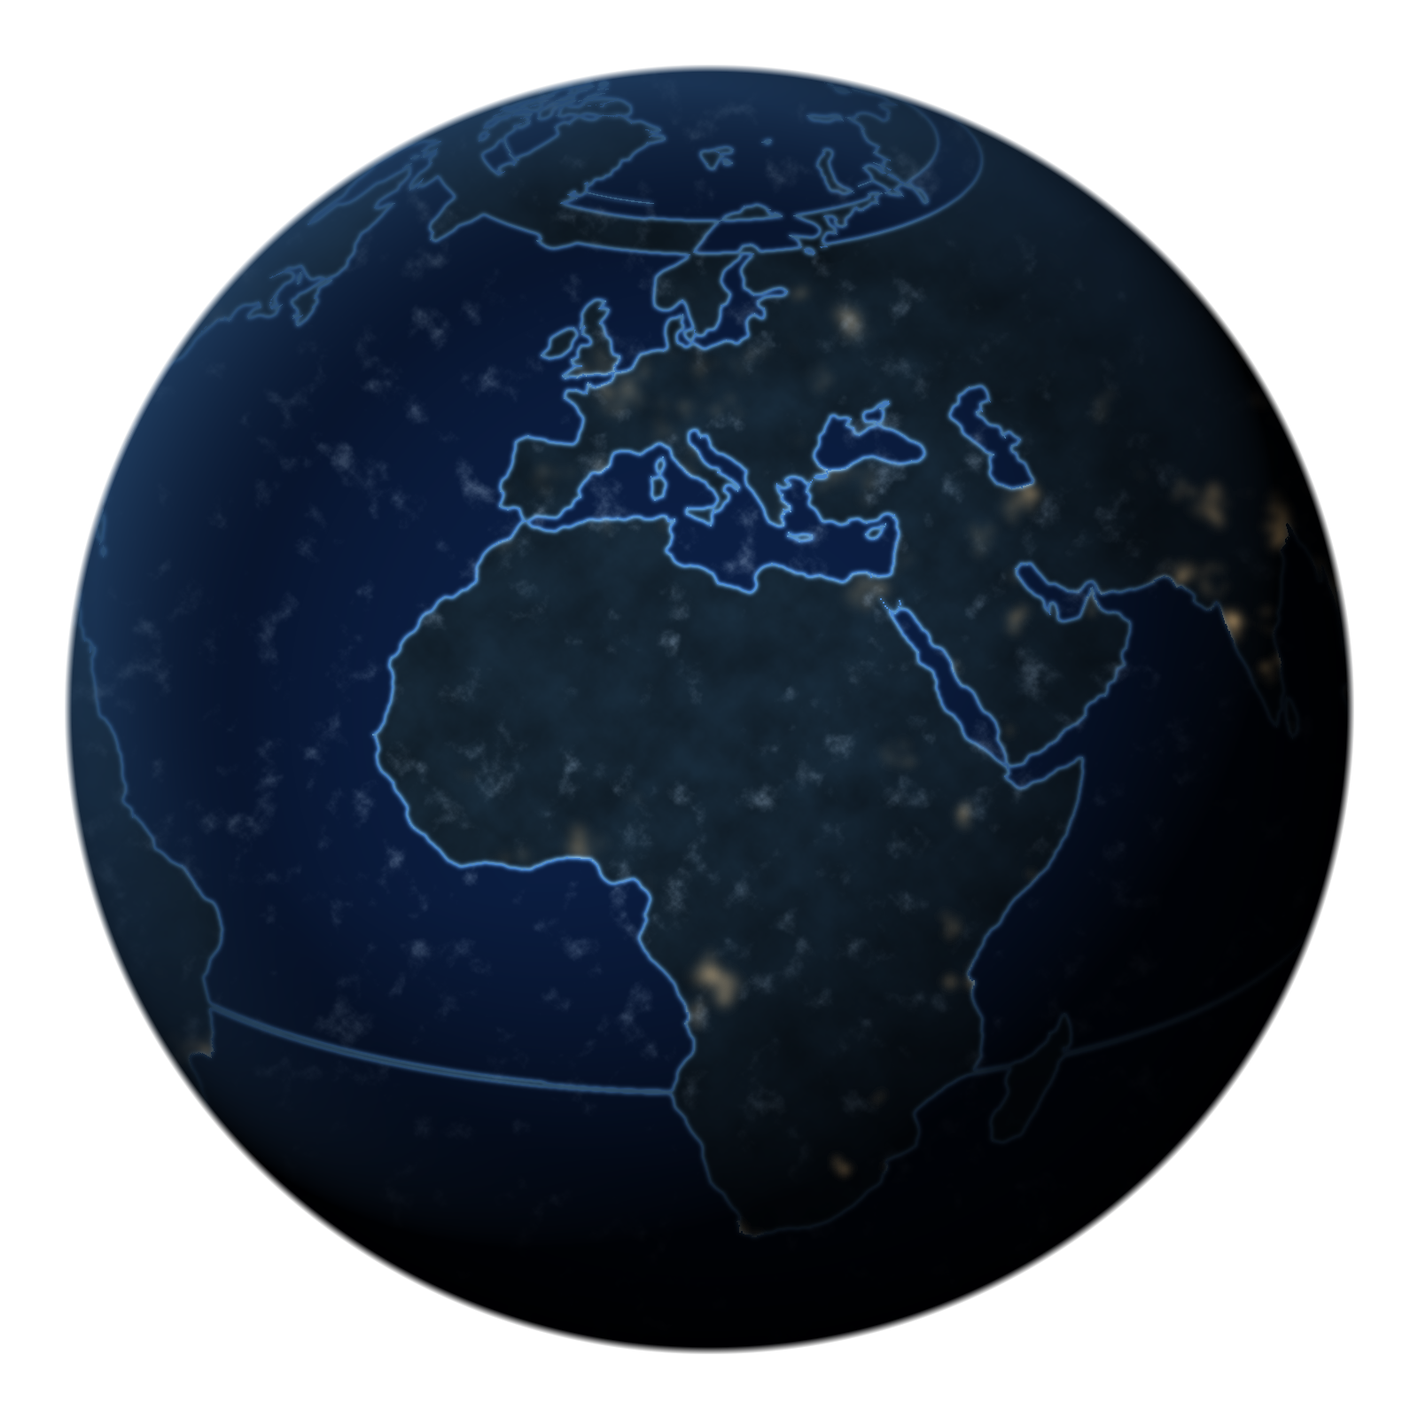
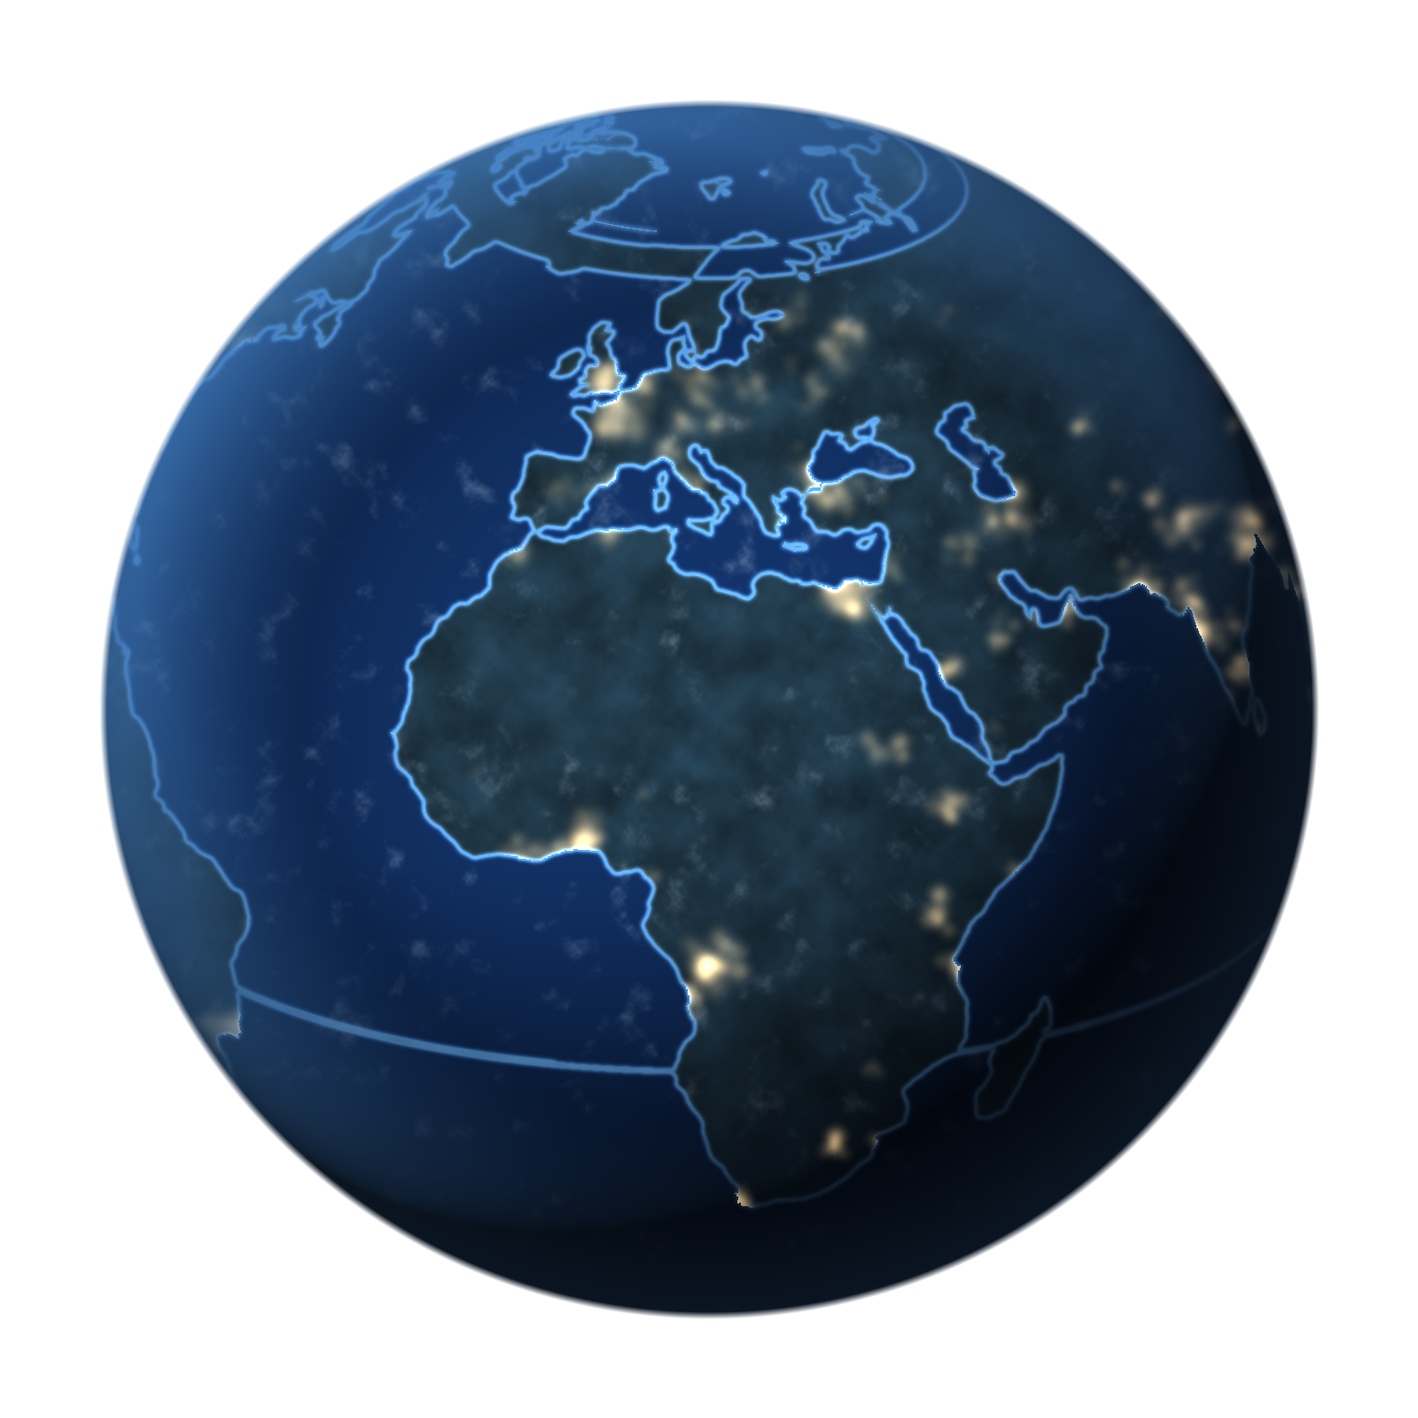
fix(home): hero scale correction — the Earth becomes the dominant visual
HERO SCALE CORRECTION. The previous pass reduced the globe too far and it
read as a small decorative sphere behind the premium card. Required
hierarchy: left headline/search/actions, MIDDLE-RIGHT a large illuminated
Earth, far right a premium card floating beside it and not overpowering it.

SCALE AND PLACEMENT
  The sphere is no longer bounded by the hero's own height. It is a fixed
  580px square at lg (640 at xl), ~1.45x its previous apparent size,
  centred vertically on the band and allowed to overflow it, with its
  horizontal centre moved from ~68% of the hero to ~52% - into the middle.
  That is what puts Earth behind the search field and the action row rather
  than beside them.
  THE MASK IS WHAT KEEPS IT FROM BEING THE EARLIER REJECTED CROP. A first
  attempt at 760px lost the limb entirely and stopped reading as a world -
  it was the oversized/cropped result the ruling warned against, and it was
  measured and withdrawn rather than shipped. At 580px with a softer radial
  mask the curvature and the limb are both visible, so the sphere dissolves
  into the atmosphere instead of ending on an edge.

LIGHTING — regenerated asset
  Ocean day colour to a vivid blue marble; more of the disc catches the sun
  so the terminator sits further round; city-light satellites per city from
  3/6/10 to 5/10/16 with higher amplitude and a 1.85x warm multiplier;
  atmospheric haze and the outer glow both widened and raised; land texture
[…]

diff --git a/frontend/src/components/home/BetaHero.tsx b/frontend/src/components/home/BetaHero.tsx
@@ -113,7 +113,7 @@ export function BetaHero({ language = 'en', latestUpdates }: BetaHeroProps): JSX
   return (
     <section
       aria-labelledby="beta-hero-heading"
-      className="relative isolate overflow-hidden pb-4 pt-3 sm:pb-5 lg:pb-5 lg:pt-5"
+      className="relative isolate overflow-hidden pb-7 pt-5 sm:pb-8 lg:pb-9 lg:pt-8"
     >
       {/*
         THE LAYERED DARK-BLUE INTELLIGENCE FIELD.
@@ -135,49 +135,87 @@ export function BetaHero({ language = 'en', latestUpdates }: BetaHeroProps): JSX
       */}
       <div
         aria-hidden="true"
-        className="pointer-events-none absolute inset-y-0 left-1/2 -z-10 w-screen -translate-x-1/2"
+        className="pointer-events-none absolute inset-y-0 left-1/2 -z-20 w-screen -translate-x-1/2"
       >
-        <div className="absolute inset-0 bg-[linear-gradient(180deg,#04090f_0%,#050e1c_45%,#04080f_100%)]" />
-        <div className="absolute inset-0 bg-[radial-gradient(ellipse_70%_60%_at_78%_32%,rgba(34,211,238,0.20),transparent_70%)]" />
-        <div className="absolute inset-0 bg-[radial-gradient(ellipse_55%_55%_at_12%_18%,rgba(139,92,246,0.14),transparent_70%)]" />
-        <div className="absolute inset-0 bg-[radial-gradient(ellipse_at_center,transparent_40%,rgba(2,6,12,0.65)_100%)]" />
+        {/*
+          ── THE WORLD ATMOSPHERE ────────────────────────────────────────
+          HERO SCALE CORRECTION: *"The current Hero still looks too much like a
+          plain dark panel with a globe asset placed inside it. Blend the world
+          treatment into the Hero background using gradients, atmospheric haze
+          and subtle world/geographic texture so the globe feels embedded in the
+          product surface."*
+
+          Seven layers, each doing one job, all pure CSS — no JavaScript, no
+          layout cost, nothing that moves and so nothing needing a
+          reduced-motion branch.
+        */}
+
+        {/* 1 · the deep base, warmer toward the horizon line than the edges */}
+        <div className="absolute inset-0 bg-[linear-gradient(180deg,#03070e_0%,#061426_42%,#08192c_62%,#040a14_100%)]" />
+
+        {/* 2 · THE ATMOSPHERE ITSELF — a wide blue bloom centred on the globe,
+               far larger than the sphere, so the light reads as coming OFF the
+               world rather than being painted behind it */}
+        <div className="absolute inset-0 bg-[radial-gradient(ellipse_86%_130%_at_58%_46%,rgba(56,150,236,0.30),transparent_68%)]" />
+
+        {/* 3 · the hotter inner core of that bloom */}
+        <div className="absolute inset-0 bg-[radial-gradient(ellipse_44%_74%_at_56%_44%,rgba(80,190,255,0.22),transparent_62%)]" />
+
+        {/* 4 · violet counterweight on the headline side, so the left is not a
+               dead corner and the two accents balance */}
+        <div className="absolute inset-0 bg-[radial-gradient(ellipse_52%_64%_at_6%_20%,rgba(124,92,246,0.18),transparent_70%)]" />
+
+        {/* 5 · SUBTLE GEOGRAPHIC TEXTURE — a graticule so faint it reads as
+               material rather than as a grid. Two repeating-linear-gradients,
+               one per axis, at ~2.5% so no line is ever individually legible */}
+        <div className="absolute inset-0 opacity-[0.55] [background-image:repeating-linear-gradient(90deg,rgba(125,211,252,0.045)_0_1px,transparent_1px_96px),repeating-linear-gradient(0deg,rgba(125,211,252,0.035)_0_1px,transparent_1px_96px)]" />
+
+        {/* 6 · atmospheric haze drifting up from the horizon */}
+        <div className="absolute inset-x-0 bottom-0 h-1/2 bg-[linear-gradient(0deg,rgba(14,52,92,0.34),transparent_84%)]" />
+
+        {/* 7 · vignette, last, so type stays legible where the bloom is brightest */}
+        <div className="absolute inset-0 bg-[radial-gradient(ellipse_at_center,transparent_36%,rgba(2,6,12,0.62)_100%)]" />
       </div>
 
       {/*
-        THE GLOBE — Z2, placed under DESKTOP FIDELITY CORRECTION R2 §3.
+        THE GLOBE — HERO SCALE CORRECTION.
 
-        R2 refused the previous placement as *"too circular, too visually
-        isolated and too dominant"* — a standalone glowing circle rather than a
-        part of the composition. The target it sets: *"approximately the
-        middle/right half of the Hero; visibly behind/around the CTA area;
-        enough Earth visible to feel global; not a standalone glowing circle;
-        premium card clearly separated at the far right."*
+        The previous pass was refused for the opposite reason to the one before
+        it: *"the globe has now been reduced too far... it reads as a small
+        decorative globe behind the premium card."* The required hierarchy is
+        stated plainly — left is headline/search/actions, MIDDLE-RIGHT is a
+        large illuminated Earth, far right is the premium card floating above
+        it — and the card must not overpower the world.
 
-        So it starts at 38% of the hero's width and runs past the right edge,
-        and it is vertically centred on the band rather than parked at the top —
-        which is what puts it BEHIND the actions rather than above them. It is
-        deliberately cropped by the hero on the right: a world that runs off the
-        frame reads as a world, while a complete disc floating in space reads as
-        a widget. The premium card sits clear of it at the far right, §4.
+        So the sphere is no longer bounded by the hero's own height. It is a
+        fixed square, ~1.7× its previous apparent size, centred vertically on
+        the band and allowed to overflow it top and bottom, with its horizontal
+        centre moved from ~68% of the hero to ~52% — into the middle. That is
+        what puts Earth behind the search field and the action row rather than
+        beside them, and it is why it no longer reads as a circular icon parked
+        behind the card.
 
-        The mask does two jobs: it fades the bottom so the hero's overflow never
-        cuts a hard line, and it fades the left so the globe dissolves behind
-        the headline instead of ending on an edge beside it.
+        THE MASKS ARE WHAT KEEP IT FROM BEING THE EARLIER REJECTED CROP. Fading
+        top, bottom and left means the sphere has no hard edge anywhere: it
+        dissolves into the atmosphere behind the headline instead of ending on
+        a line, so a viewer reads "a world the page is sitting on" rather than
+        "a large image that did not fit".
+
+        `-z-10` keeps it above the atmosphere layers and below every control.
+        It is `aria-hidden`, carries no marks, and nothing on the page reads it.
       */}
       <div
         aria-hidden="true"
-        className="pointer-events-none absolute inset-y-0 right-[-16%] left-[42%] -z-10 opacity-70 [mask-image:linear-gradient(to_right,transparent_0%,#000_30%)] sm:right-[-12%] sm:left-[44%] sm:opacity-75 lg:right-[-12%] lg:left-[30%] lg:opacity-100"
+        className="pointer-events-none absolute left-1/2 top-1/2 -z-10 h-[380px] w-[380px] -translate-x-[6%] -translate-y-[52%] opacity-75 [mask-image:radial-gradient(circle_at_50%_50%,#000_84%,rgba(0,0,0,0.72)_93%,transparent_100%)] sm:h-[460px] sm:w-[460px] sm:opacity-90 lg:h-[580px] lg:w-[580px] lg:-translate-x-[20%] lg:-translate-y-[50%] lg:opacity-100 xl:h-[640px] xl:w-[640px] xl:-translate-x-[22%]"
       >
-        <div className="relative h-full w-full [mask-image:linear-gradient(to_bottom,#000_72%,transparent_97%)]">
-          <HeroGlobe />
-        </div>
+        <HeroGlobe />
       </div>
 
       <div className="relative grid grid-cols-1 gap-8 lg:grid-cols-[minmax(0,1fr)_minmax(0,300px)] lg:items-start lg:gap-7">
         <div className="flex max-w-2xl flex-col">
           <h1
             id="beta-hero-heading"
-            className="font-display text-[34px] font-semibold leading-[1.05] tracking-[-0.02em] sm:text-[42px] lg:text-[40px] xl:text-[46px]"
+            className="font-display text-[36px] font-semibold leading-[1.04] tracking-[-0.022em] sm:text-[44px] lg:text-[50px] xl:text-[56px]"
           >
             <span className="block text-ink-primary">{t.heroA}</span>
             {/*
@@ -191,7 +229,7 @@ export function BetaHero({ language = 'en', latestUpdates }: BetaHeroProps): JSX
             <span className="block text-cyan-300">{t.heroB}</span>
           </h1>
 
-          <p className="mt-2.5 max-w-xl text-[14px] leading-relaxed text-ink-secondary sm:text-[15px]">
+          <p className="mt-4 max-w-xl text-[15px] leading-relaxed text-ink-secondary sm:text-base">
             {t.heroSub}
           </p>
 
@@ -205,7 +243,7 @@ export function BetaHero({ language = 'en', latestUpdates }: BetaHeroProps): JSX
             method="get"
             role="search"
             aria-label={t.askAria}
-            className="mt-3.5 flex w-full max-w-[520px] items-center gap-2 rounded-2xl border border-border-strong bg-void/70 p-1.5 pl-4 shadow-[0_0_40px_-12px_rgba(34,211,238,0.35)] focus-within:border-cyan-400/50"
+            className="mt-5 flex w-full max-w-[600px] items-center gap-2 rounded-2xl border border-border-strong bg-void/75 p-2 pl-4 shadow-[0_0_40px_-12px_rgba(34,211,238,0.35)] focus-within:border-cyan-400/50"
           >
             <Sparkles size={18} strokeWidth={1.75} aria-hidden="true" className="shrink-0 text-violet-300" />
             <input
@@ -225,7 +263,7 @@ export function BetaHero({ language = 'en', latestUpdates }: BetaHeroProps): JSX
           </form>
 
           {/* The metered-cost disclosure. Approved copy, stated before the spend. */}
-          <p className="mt-2 flex max-w-xl items-start gap-1.5 text-[11.5px] leading-snug text-ink-tertiary">
+          <p className="mt-3 flex max-w-xl items-start gap-1.5 text-[12px] leading-snug text-ink-tertiary">
             <Zap size={13} strokeWidth={2} aria-hidden="true" className="mt-[2px] shrink-0 text-amber-300" />
             <span>{t.askHint}</span>
           </p>
@@ -234,35 +272,35 @@ export function BetaHero({ language = 'en', latestUpdates }: BetaHeroProps): JSX
             THE THREE ACTIONS. All three are ordinary links to destinations that
             already exist, and none of them spends anything on arrival.
           */}
-          <div className="mt-3.5 grid w-full max-w-[700px] grid-cols-1 gap-2.5 sm:grid-cols-3">
+          <div className="mt-5 grid w-full max-w-[720px] grid-cols-1 gap-3 sm:grid-cols-3">
             <a
               href="#whats-happening-now"
-              className="flex min-h-[44px] items-center gap-2.5 rounded-xl border border-border-strong bg-void/70 px-3.5 py-2.5 text-left transition-colors hover:border-cyan-400/40 hover:bg-white/5 focus-visible:outline-none focus-visible:ring-2 focus-visible:ring-cyan-400/50 motion-reduce:transition-none"
+              className="flex min-h-[44px] items-center gap-2.5 rounded-xl border border-border-strong bg-void/70 px-4 py-3 text-left transition-colors hover:border-cyan-400/40 hover:bg-white/5 focus-visible:outline-none focus-visible:ring-2 focus-visible:ring-cyan-400/50 motion-reduce:transition-none"
             >
-              <Globe2 size={18} strokeWidth={1.9} aria-hidden="true" className="shrink-0 text-cyan-300" />
+              <Globe2 size={20} strokeWidth={1.85} aria-hidden="true" className="shrink-0 text-cyan-300" />
               <span className="flex min-w-0 flex-col">
-                <span className="text-[13px] font-semibold leading-tight text-ink-primary">{t.exploreWorld}</span>
-                <span className="truncate text-[10.5px] leading-tight text-ink-tertiary">{t.exploreWorldSub}</span>
+                <span className="text-[14px] font-semibold leading-tight text-ink-primary">{t.exploreWorld}</span>
+                <span className="text-[11px] leading-tight text-ink-tertiary">{t.exploreWorldSub}</span>
               </span>
             </a>
             <a
               href="/ask"
-              className="flex min-h-[44px] items-center gap-2.5 rounded-xl bg-violet-600 px-3.5 py-2.5 text-left transition-colors hover:bg-violet-500 focus-visible:outline-none focus-visible:ring-2 focus-visible:ring-violet-300 motion-reduce:transition-none"
+              className="flex min-h-[44px] items-center gap-2.5 rounded-xl bg-violet-600 px-4 py-3 text-left transition-colors hover:bg-violet-500 focus-visible:outline-none focus-visible:ring-2 focus-visible:ring-violet-300 motion-reduce:transition-none"
             >
-              <Sparkles size={18} strokeWidth={1.9} aria-hidden="true" className="shrink-0 text-white" />
+              <Sparkles size={20} strokeWidth={1.85} aria-hidden="true" className="shrink-0 text-white" />
               <span className="flex min-w-0 flex-col">
-                <span className="text-[13px] font-semibold leading-tight text-white">{t.askToday}</span>
-                <span className="truncate text-[10.5px] leading-tight text-white/80">{t.askTodaySub}</span>
+                <span className="text-[14px] font-semibold leading-tight text-white">{t.askToday}</span>
+                <span className="text-[11px] leading-tight text-white/80">{t.askTodaySub}</span>
               </span>
             </a>
             <a
               href="/map"
-              className="flex min-h-[44px] items-center gap-2.5 rounded-xl bg-teal-700 px-3.5 py-2.5 text-left transition-colors hover:bg-teal-600 focus-visible:outline-none focus-visible:ring-2 focus-visible:ring-teal-300 motion-reduce:transition-none"
+              className="flex min-h-[44px] items-center gap-2.5 rounded-xl bg-teal-700 px-4 py-3 text-left transition-colors hover:bg-teal-600 focus-visible:outline-none focus-visible:ring-2 focus-visible:ring-teal-300 motion-reduce:transition-none"
             >
-              <MapIcon size={18} strokeWidth={1.9} aria-hidden="true" className="shrink-0 text-white" />
+              <MapIcon size={20} strokeWidth={1.85} aria-hidden="true" className="shrink-0 text-white" />
               <span className="flex min-w-0 flex-col">
-                <span className="text-[13px] font-semibold leading-tight text-white">{t.openMap}</span>
-                <span className="truncate text-[10.5px] leading-tight text-white/80">{t.openMapSub}</span>
+                <span className="text-[14px] font-semibold leading-tight text-white">{t.openMap}</span>
+                <span className="text-[11px] leading-tight text-white/80">{t.openMapSub}</span>
               </span>
             </a>
           </div>

diff --git a/scripts/hero-globe/render.py b/scripts/hero-globe/render.py
@@ -6,7 +6,7 @@ import numpy as np
 from PIL import Image, ImageFilter
 
 N = 1600                      # output is square, NxN
-R = N * 0.455                 # sphere radius, leaving room for the atmosphere
+R = N * 0.430                 # sphere radius, leaving room for the atmosphere
 CX = CY = N / 2.0
 LON0, LAT0 = math.radians(15.0), math.radians(20.0)   # Europe/Africa framing
 HERE = os.path.dirname(os.path.abspath(__file__))
@@ -40,7 +40,7 @@ land = np.where(inside & (np.abs(lat) < math.radians(83.0)), land_arr[py, px], 0
 sun = np.array([-0.42, 0.50, 0.76]); sun /= np.linalg.norm(sun)
 nz = np.sqrt(np.clip(1 - rho2, 0, 1))
 lam = np.clip(dx * sun[0] + dy * sun[1] + nz * sun[2], 0, 1)
-day = np.clip((lam - 0.06) / 0.62, 0, 1) ** 0.85          # lit fraction
+day = np.clip((lam - 0.02) / 0.70, 0, 1) ** 0.72          # lit fraction
 night = 1.0 - day
 
 def fbm(shape, octaves=6, seed=7, start=24):
@@ -54,10 +54,10 @@ def fbm(shape, octaves=6, seed=7, start=24):
 
 # ── base colour ─────────────────────────────────────────────────────────────
 rgb = np.zeros((N, N, 3))
-ocean_day  = np.array([0.045, 0.120, 0.265]);  ocean_night = np.array([0.005, 0.018, 0.048])
-land_day   = np.array([0.085, 0.150, 0.205]);  land_night  = np.array([0.014, 0.030, 0.050])
+ocean_day  = np.array([0.075, 0.205, 0.420]);  ocean_night = np.array([0.006, 0.022, 0.058])
+land_day   = np.array([0.135, 0.235, 0.300]);  land_night  = np.array([0.018, 0.038, 0.062])
 tex = fbm((N, N), seed=11, start=40)
-land_tint = 1.0 + (tex - 0.5) * 0.55
+land_tint = 1.0 + (tex - 0.5) * 0.72
 for i in range(3):
     ocean = ocean_day[i] * day + ocean_night[i] * night
     ground = (land_day[i] * day + land_night[i] * night) * land_tint
@@ -67,9 +67,9 @@ for i in range(3):
 from PIL import ImageFilter as _IF
 _land_img = Image.fromarray((land * 255).astype(np.uint8))
 _blur = np.asarray(_land_img.filter(_IF.GaussianBlur(2.6))).astype(np.float64) / 255.0
-coast = np.clip(np.abs(land - _blur) * 2.6, 0, 1) * inside
+coast = np.clip(np.abs(land - _blur) * 3.0, 0, 1) * inside
 for i, ch in enumerate((0.42, 0.70, 0.95)):
-    rgb[:, :, i] += coast * ch * (0.13 + 0.48 * day)
+    rgb[:, :, i] += coast * ch * (0.18 + 0.60 * day)
 
 # ── city light: soft blooms at real cities, weighted to the night side ──────
 cities = json.load(open(os.path.join(HERE, 'cities.json')))
@@ -81,15 +81,15 @@ for _name, clat, clon, tier in cities:
         continue
     gx = CX + R * (math.cos(la) * math.sin(lo - LON0))
     gy = CY - R * (math.cos(LAT0) * math.sin(la) - math.sin(LAT0) * math.cos(la) * math.cos(lo - LON0))
-    rad = (2.6, 4.0, 6.2)[tier - 1] * (0.55 + 0.45 * cosd)
-    amp = (0.30, 0.52, 0.80)[tier - 1] * (0.35 + 0.65 * cosd)
+    rad = (3.0, 4.6, 7.0)[tier - 1] * (0.55 + 0.45 * cosd)
+    amp = (0.40, 0.68, 1.00)[tier - 1] * (0.35 + 0.65 * cosd)
     # A city is a conurbation, not a point: each one scatters a handful of
     # small satellite blooms around its centre, deterministically seeded, so
     # the result is an irregular urban patch rather than a neat circle. This is
     # what stops the light reading as a marker — a marker is one shape in one
     # place, and this is a cluster with no centre a reader can point at.
     rs = np.random.default_rng(abs(hash(_name)) % (2**32))
-    n_sat = (3, 6, 10)[tier - 1]
+    n_sat = (5, 10, 16)[tier - 1]
     for k in range(n_sat):
         jx = gx + rs.normal(0, rad * 2.1)
         jy = gy + rs.normal(0, rad * 2.1)
@@ -103,10 +103,10 @@ for _name, clat, clon, tier in cities:
         d2 = (sx - jx) ** 2 + (sy - jy) ** 2
         glow[y0:y1, x0:x1] += ja * np.exp(-d2 / (2 * jr * jr))
 glow = np.asarray(Image.fromarray((np.clip(glow, 0, 4) * 63).astype(np.uint8)).filter(ImageFilter.GaussianBlur(4.5))).astype(np.float64) / 255.0 * 4
-glow *= land * (0.30 + 0.85 * night) * inside          # brightest on the night side, only on land
+glow *= land * (0.42 + 0.85 * night) * inside          # brightest on the night side, only on land
 warm = np.array([1.00, 0.80, 0.52])
 for i in range(3):
-    rgb[:, :, i] += glow * warm[i] * 1.15
+    rgb[:, :, i] += glow * warm[i] * 1.85
 
 # ── cloud veil ──────────────────────────────────────────────────────────────
 cl = fbm((N, N), octaves=7, seed=29, start=56)
@@ -117,16 +117,16 @@ for i in range(3):
 # ── limb darkening, then a soft atmosphere (no hard ring) ───────────────────
 limb = np.clip(1.0 - (rho ** 3.2) * 0.85, 0, 1)
 rgb *= limb[:, :, None]
-haze = np.clip((rho - 0.72) / 0.28, 0, 1) ** 1.6 * day
+haze = np.clip((rho - 0.66) / 0.34, 0, 1) ** 1.45 * (0.22 + 0.78 * day)
 for i, ch in enumerate((0.33, 0.62, 0.95)):
-    rgb[:, :, i] += haze * ch * 0.34
+    rgb[:, :, i] += haze * ch * 0.62
 
 alpha = inside.astype(np.float64)
 edge = np.clip((1.0 - rho) / 0.012, 0, 1)
 alpha *= edge
 # outer glow, fading to nothing - this is what replaces the neon ring
-outer = np.clip((rho - 1.0) / 0.13, 0, 1)
-outer_a = np.where((rho > 1.0) & (rho < 1.13), (1 - outer) ** 2.4 * 0.42, 0.0)
+outer = np.clip((rho - 1.0) / 0.20, 0, 1)
+outer_a = np.where((rho > 1.0) & (rho < 1.20), (1 - outer) ** 2.1 * 0.60, 0.0)
 for i, ch in enumerate((0.22, 0.52, 0.92)):
     rgb[:, :, i] = np.where(outer_a > 0, ch, rgb[:, :, i])
 alpha = np.maximum(alpha, outer_a)
